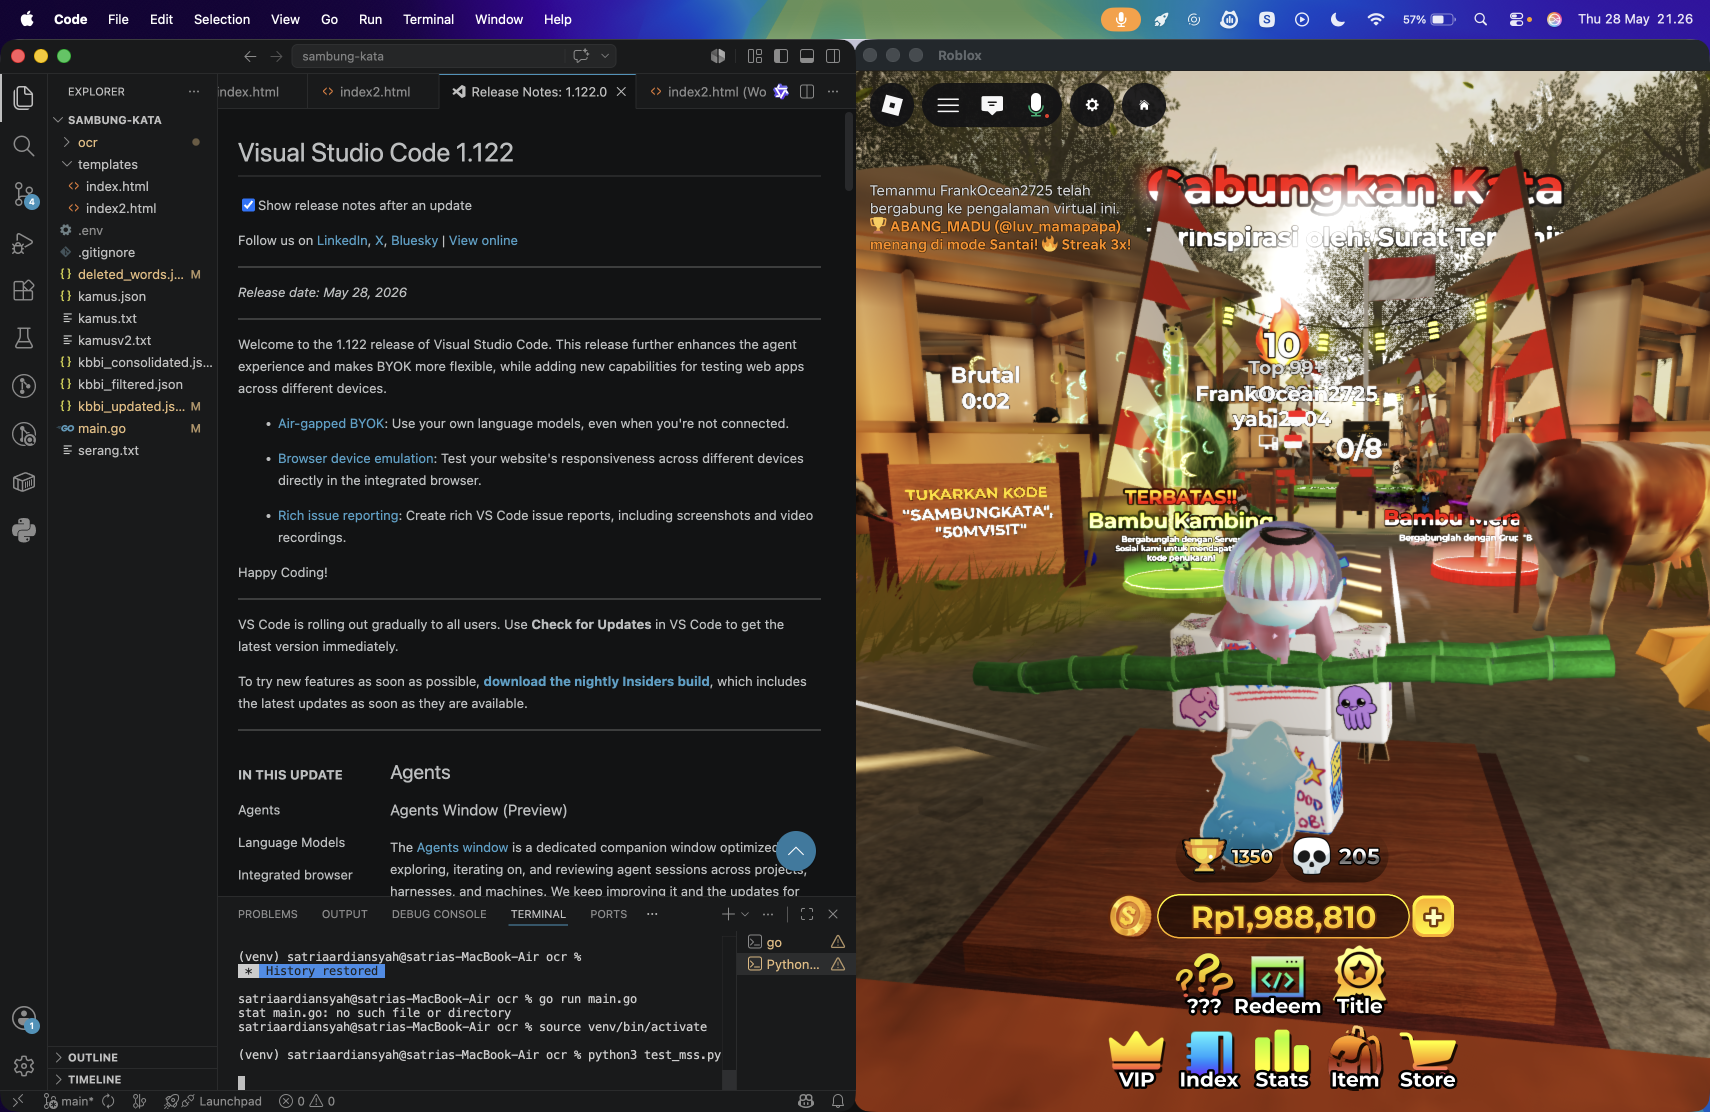
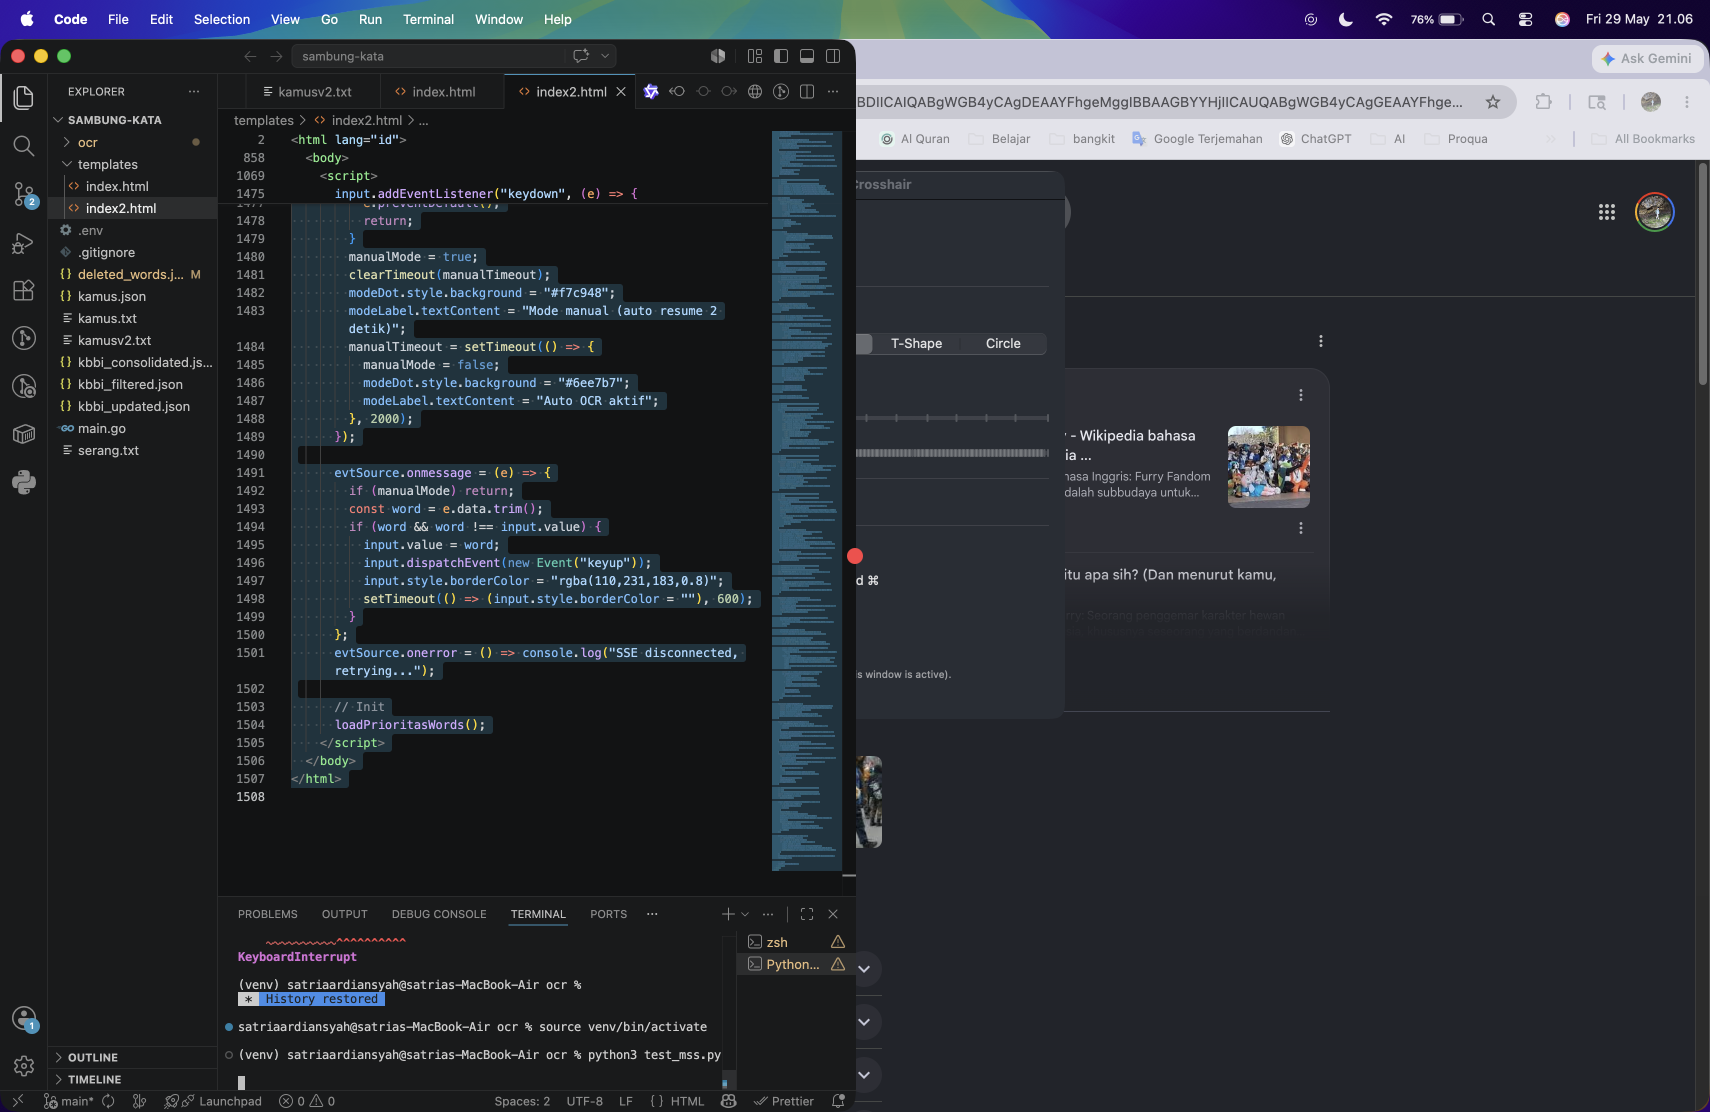
feat: update deleted words list, enhance warning and prioritization sync, and improve badge updates

diff --git a/templates/index2.html b/templates/index2.html
@@ -1145,12 +1145,18 @@
             if (cb.checked) {
               activeWarnings.add(suffix);
               label.classList.add("checked");
+              // ✅ Sync ke Prioritas
+              activePrioritas.add(suffix);
             } else {
               activeWarnings.delete(suffix);
               label.classList.remove("checked");
+              // ✅ Sync ke Prioritas
+              activePrioritas.delete(suffix);
             }
             updateBadge();
+            updateBadgeP(); // ✅ tambah ini
             buildDangerIndex();
+            triggerSearch(); // ✅ tambah ini
           });
           container.appendChild(label);
         });
@@ -1179,12 +1185,15 @@
           document.getElementById("warningSearch").value || ""
         ).toLowerCase();
         const filtered = WARNING_WORDS.filter((s) => s.includes(filter));
-        filtered.forEach((s) =>
-          val ? activeWarnings.add(s) : activeWarnings.delete(s),
-        );
+        filtered.forEach((s) => {
+          val ? activeWarnings.add(s) : activeWarnings.delete(s);
+          val ? activePrioritas.add(s) : activePrioritas.delete(s); // ✅ sync
+        });
         renderWarningList();
         updateBadge();
+        updateBadgeP(); // ✅
         buildDangerIndex();
+        triggerSearch(); // ✅
       }
 
       // ══════════════════════════════════════
@@ -1415,11 +1424,21 @@
             if (cb.checked) {
               activePrioritas.add(suffix);
               label.classList.add("checked");
+              // ✅ Sync ke Warning (hanya jika suffix ada di WARNING_WORDS)
+              if (WARNING_WORDS.includes(suffix)) {
+                activeWarnings.add(suffix);
+              }
             } else {
               activePrioritas.delete(suffix);
               label.classList.remove("checked");
+              // ✅ Sync ke Warning
+              if (WARNING_WORDS.includes(suffix)) {
+                activeWarnings.delete(suffix);
+              }
             }
             updateBadgeP();
+            updateBadge(); // ✅ tambah ini
+            buildDangerIndex(); // ✅ tambah ini
             triggerSearch();
           });
           container.appendChild(label);
@@ -1455,13 +1474,21 @@
         const filtered = PRIORITAS_DATA.filter((d) =>
           d.suffix.includes(filter),
         );
-        filtered.forEach((d) =>
+        filtered.forEach((d) => {
           val
             ? activePrioritas.add(d.suffix)
-            : activePrioritas.delete(d.suffix),
-        );
+            : activePrioritas.delete(d.suffix);
+          // ✅ sync ke warning jika suffix ada di WARNING_WORDS
+          if (WARNING_WORDS.includes(d.suffix)) {
+            val
+              ? activeWarnings.add(d.suffix)
+              : activeWarnings.delete(d.suffix);
+          }
+        });
         renderPrioritasList();
         updateBadgeP();
+        updateBadge(); // ✅
+        buildDangerIndex(); // ✅
         triggerSearch();
       }
 